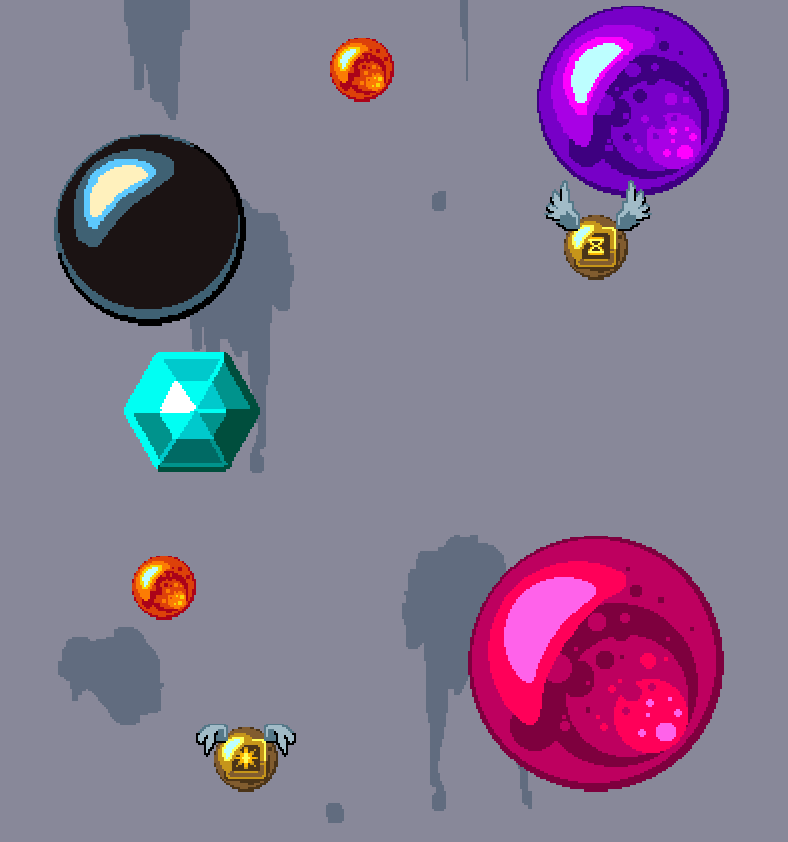
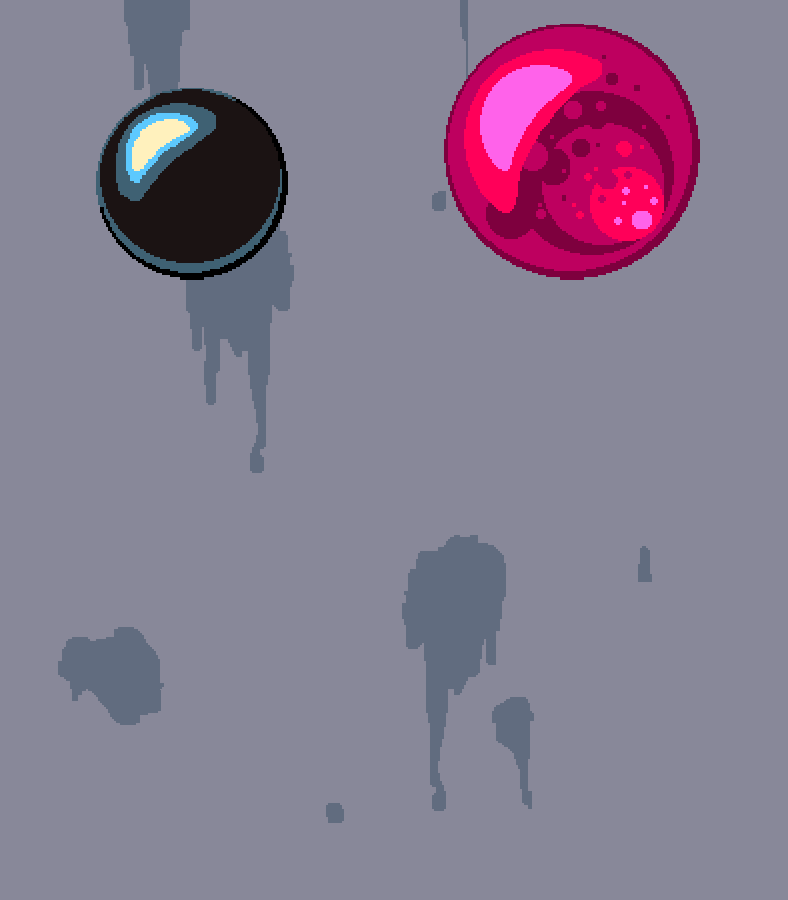
cleaner design

diff --git a/poppanic/styles/css/styles.css b/poppanic/styles/css/styles.css
@@ -37,12 +37,12 @@ h1,h2,h3,h4,h5,h6{ line-height: 1.5; font-weight: inherit; }
 
 h1,h2,h3{ font-family: 'Poppins', sans-serif; }
 
-p{ line-height: 1.6; font-size: 1.05em; font-weight: 400; color: #555; }
+p{ line-height: 1.6; font-size: 1.6em; font-weight: 500; color: #555; }
 
 h1{ font-size: 3.5em; line-height: 1; }
 h2{ font-size: 3em; line-height: 1.1; }
 h3{ font-size: 2.5em; }
-h4{ font-size: 1.5em; }
+h4{ font-size: 2em; font-syle: italic }
 h5{ font-size: 1.2em; }
 h6{ font-size: .9em; letter-spacing: 1px; }
 
@@ -111,15 +111,16 @@ b.light-color{ color: #444; }
 3. MAIN SECTION
 --------------------------------- */
 
-.main-area{ font-family:'Poppins', sans-serif;position: relative; height: 100vh; z-index: 1; padding: 0 20px; background-size: cover; background-position: center; color: #889; }
+.main-area{ font-family:'Poppins', sans-serif;position: relative; height: 100vh; z-index: 1; padding: 0 10px; background-repeat: no-repeat;  background-size: contain; background-position: top; color: #889; }
 
 .main-area:after{ content:''; position: absolute; top: 0; bottom: 0;left: 0; right: 0; z-index: -1;  
 	opacity: .0; background: #889; }
 
-.main-area .logo{width: 70%; max-width: 350px; margin: 20px auto;}	
+.main-area .logo{width: 70%; max-width: 350px; margin: 60px auto 10px auto;}	
+
 .main-area .google-play{width: 205px; height: 61px; margin: 20px auto;}	
 
-.main-area .desc{font-family:'Poppins', sans-serif; margin: 20px auto; width: 80%; max-width: 550px; text-align:center}
+.main-area .desc{font-family:'Poppins', sans-serif; margin: 40px auto; width: 80%; max-width: 550px; text-align:center}
 
 .main-area .call-to-action{font-weight: bold; margin: 0px auto; margin-top: 40px; margin-bottom: 10px; max-width: 500px; text-align: center}
 	
@@ -137,15 +138,14 @@ b.light-color{ color: #444; }
 
 .main-area .social-btn > li > a:hover:after{ transform: translateX(100%); }
 
-.main-area .email-input-area  {position: relative; text-align: center; margin: 40px auto;}
+.main-area .email-input-area  {position: relative; width: auto; max-width:550px; text-align: center; margin: 20px auto; background: rgba(0,0,0,0.5); padding: 10px; padding-top: 40px; border-radius: 8px 8px 8px 8px;}
 
 .main-area .email-input-area .email-input{font-family: 'Poppins', sans-serif; position:relative; width: 60%; max-width: 350px; height:48px; top: 0; bottom: 0; left: 0; right: 0; 
-	border-radius: 4px; border: 0; outline: 0; padding: 0 90px 0 20px; background: #F1F2F3; 
+	border-radius: 4px; border: 0; outline: 0; padding: 0px 0px 0px 10px; background: #F1F2F3; font-size: 1.6em;
 	box-shadow: inset 0 0 1px rgba(0,0,0,.1); border: 1px solid transparent;}
 
-.main-area .email-input-area .email-input:focus{ border-color: #f89fbc; }
+.main-area .email-input-area .email-input:focus{ border-color: #f60; }
 
-
-.main-area .email-input-area .submit-btn{font-family: 'Poppins', sans-serif; font-weight: bold; padding: 4px 4px; position:absolute; width: 80px; height:42px; font-weight: bold; margin-left: -80px; font-size: .9em; outline: 0; border-radius: 4px 4px 4px 4px; background: #ff6600; color: #fff; transition: none; box-shadow: inset 0 -4px 0 #993300;}
+.main-area .email-input-area .submit-btn{font-family: 'Poppins', sans-serif; font-weight: bold; padding: 4px 4px; position:relative; width: auto; height:48px; font-weight: bold; margin: auto; margin-top:20px; font-size: 1.6em; outline: 0; border-radius: 4px 4px 4px 4px; background: #ff6600; color: #fff; transition: none; box-shadow: inset 0 -4px 0 #993300;}
 
 .main-area .email-input-area .submit-btn:hover{ background: #ff7700; }

diff --git a/poppanic/index.html b/poppanic/index.html
@@ -25,7 +25,7 @@
 </head>
 <body>
 	
-	<div class="main-area center-text" style="background-image:url(images/bg_balls.png);">
+	<div class="main-area center-text" style="background-image:url(images/bg-noballs.png);">
 		
 		<div class="display-table">
 			<div class="display-table-cell">
@@ -33,25 +33,15 @@
 				<h1 class="title font-white">
 					<img class="logo" src="images/poppanic-logo.png" alt="Pop Panic"></a>
 				</h1>
-				
-				<h4 class="title font-white">
-					Pop every ball, get the highest score.
-				</h4>
-				<a href="#"><img class="google-play" src="images/googleplaybadge.png" alt="Get it on Google Play."></a>
-				
+							
 				<p class="desc font-white">
-					Hi. I'm <a href="http://www.edualonso.es">Edu Alonso</a> and I made this game in collaboration
-					with <a href="http://www.modulationmusic.es">Hernán Marandino,</a> who created the amazing sounds and music.
+					Hi. I'm <a href="http://www.edualonso.es">Edu Alonso.</a> I am an independent game designer from Spain.
 				</p>
 				
-				
 				<p class="desc font-white">
-					I am an independent creator. If you like this game	and want to support me,
-					you can sign up to my newsletter. This way I can reach back to you 
-					when I publish a new game that you might like.
+					I made this game in 2019 along with <a href="http://www.modulationmusic.es">Hernán Marandino,</a> 
+					who created the amazing sounds and music.
 				</p>
-				
-
 				
 				<div class="email-input-area">
 					<!-- Begin Mailchimp Signup Form -->
@@ -68,9 +58,17 @@
 							<!--<div class="clear"><input type="submit" value="Subscribe" name="subscribe" id="mc-embedded-subscribe" class="button"></div>-->
 						</div>
 					</form>
+						<p class="desc font-white">
+							If you want to know when I publish a new game, please subscribe to my newsletter.
+						</p>
 					</div>
 					
 				</div><!-- email-input-area -->
+
+				
+				
+
+				<a href="#"><img class="google-play" src="images/googleplaybadge.png" alt="Get it on Google Play."></a>	
 				
 				
 				<ul class="social-btn font-white">
